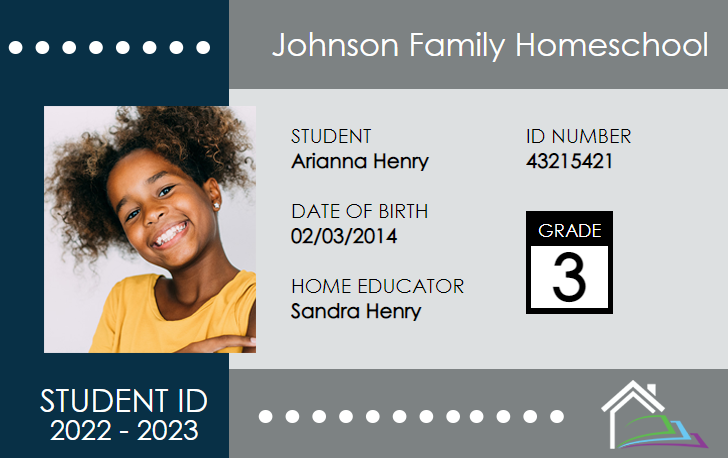
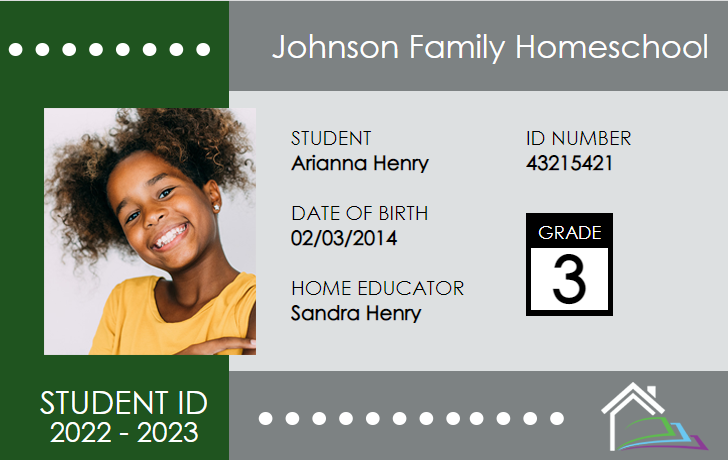
card color type

diff --git a/public/card/css/style.css b/public/card/css/style.css
@@ -19,8 +19,8 @@ label{color:#333; font-weight:400; display:block; font-size:13px;}
 lable span{color:#333;}
 .btn-primary{font-size: 16px; font-weight: 600; color: #fff; padding: 16px 24px; box-shadow: none; background: #dde0e1; border-radius: 16px; position:relative; border: 0;}
 
-.v-card{width:730px; height: 460px; background:#dde0e1; margin:0 auto; position:relative;}
-.v-card:before{content:""; background:#023047; display:block; position:absolute; top:0; left:0; width:90px; height:100%; z-index:1;}
+.v-card{width:730px; height: 460px; background:#1e541c; margin:0 auto; position:relative;}
+.v-card:before{content:""; display:block; position:absolute; top:0; left:0; width:90px; height:100%; z-index:1;}
 .v-card:after{content:""; background:#dde0e1; display:block; position:absolute; top:0; right:0; width:calc(100% - 80px); height:100%; z-index:1;}
 .v-card .top{position:relative; z-index:11;}
 .v-card .top:after{content:""; background:#7d8283; display:block; position:absolute; top:0; right:0; width:calc(100% - 80px); height:100%; z-index:1;}

diff --git a/public/js/page/id-card.js b/public/js/page/id-card.js
@@ -39,10 +39,25 @@ $(document).ready(function() {
 		}
 	}
 
+	function color_type_change() {
+		var card_color = $('input[name="card_color"]:checked').val();
+
+		if (card_color == 1) {
+			$('.v-card').css('background', '#1e541c');
+		} else {
+			$('.v-card').css('background', '#40a3a3');
+		}
+	}
+
 	card_type_change();
+	color_type_change();
 
 	$('input[type=radio][name=card_type]').change(function() {
 		card_type_change();
+	});
+
+	$('input[type=radio][name=card_color]').change(function() {
+		color_type_change();
 	});
 
 	$('body').on('click', '.update_preview', function() {

diff --git a/resources/views/id_card/id_card.blade.php b/resources/views/id_card/id_card.blade.php
@@ -155,7 +155,7 @@
 											</span>
 
 											<div class="button-center">
-												<input type="submit" name="asubmitbutton" value="Display Printable Page" class="display_printable_page select_card_type">
+												<input type="submit" name="asubmitbutton" value="Display Printable Page" class="display_printable_page select_card_type btn btn-success">
 						 					</div>
 										</div>
 									</div>
@@ -177,19 +177,19 @@
 											</div>
 										</div>
 
-										{{-- <div class="row">
+										<div class="row">
 											<div class="column">
 												<div class="checkbox">
-													<input type="radio" name="card_color" id="color-magenta" checked="" value="1" class="toggle_appropriate_fields">
-													<label for="color-magenta">&nbsp;MAGENTA</label>
+													<input type="radio" name="card_color" id="color-green" checked="" value="1" class="toggle_appropriate_fields">
+													<label for="color-green" style="display: inline; margin-bottom: 0 !important;">&nbsp;GREEN</label>
 
 													<span class="spacer"></span>
 
-													<input type="radio" name="card_color" id="color-blue" value="2" class="toggle_appropriate_fields">
-													<label for="color-blue">&nbsp;BLUE</label>
+													<input type="radio" name="card_color" id="color-aqua" value="2" class="toggle_appropriate_fields">
+													<label for="color-aqua" style="display: inline; margin-bottom: 0 !important;">&nbsp;AQUA</label>
 												</div>
 											</div>
-										</div> --}}
+										</div>
 
 										<div class="row">
 											<div class="one-half column">
@@ -300,7 +300,7 @@
 
 											<div class="one-half column">
 												<div>
-													<input type="submit" name="asubmitbutton" class="update_preview" value="Update Preview">
+													<input type="submit" name="asubmitbutton" class="update_preview btn btn-success" value="Update Preview">
 												</div>
 												<p></p>
 											</div>

diff --git a/app/Http/Controllers/IdCardController.php b/app/Http/Controllers/IdCardController.php
@@ -9,6 +9,7 @@ use Auth;
 use DB;
 use Carbon\Carbon;
 use App\Models\IdCard;
+use File;
 
 class IdCardController extends Controller
 {
@@ -51,7 +52,7 @@ class IdCardController extends Controller
 		        	$idcard = new IdCard;
 		        	$idcard->id_number = $request->id_number;
 		        	$idcard->card_type = $request->card_type;
-		        	// $idcard->card_color = $request->card_color;
+		        	$idcard->card_color = $request->card_color;
 		        	$idcard->school_name = $request->school_name;
 		        	$idcard->school_year = $request->school_year;
 		        	$idcard->student_grade = $request->student_grade;
@@ -68,7 +69,10 @@ class IdCardController extends Controller
 
 		        	if ($request->hasFile('display_photo')) {
 	                    if ($idcard->display_photo != '') {
-	                        if (file_exists(public_path('uploads/idcard_photo') . $idcard->display_photo)) {
+	                    	$file_path = public_path('uploads/idcard_photo') . $idcard->display_photo;
+	                    	File::makeDirectory($file_path, $mode = 0777, true, true);
+
+	                        if (file_exists($file_path)) {
 	                            unlink(public_path('uploads/idcard_photo') . $idcard->display_photo);
 	                        }
 	                    }          

diff --git a/resources/views/id_card/print_card.blade.php b/resources/views/id_card/print_card.blade.php
@@ -23,9 +23,17 @@
 </head>
 <body>
 	@if ($data->card_type == 1)
-		<img src="{{ asset('card/img/card-bg-student.png') }}" />
+		@if ($data->card_color == 1)
+			<img src="{{ asset('card/img/card-green-student.png') }}" />
+		@else
+			<img src="{{ asset('card/img/card-aqua-student.png') }}" />
+		@endif
 	@else
-		<img src="{{ asset('card/img/card-bg-teacher.png') }}" />
+		@if ($data->card_color == 1)
+			<img src="{{ asset('card/img/card-green-teacher.png') }}" />
+		@else
+			<img src="{{ asset('card/img/card-aqua-teacher.png') }}" />
+		@endif
 	@endif
 
 	<p style="position: absolute; left: 350px; top:34px; font-size: 32px; color: #fff !important; text-align: right; line-height: 20px;">{{ $data->school_name }}</p>
